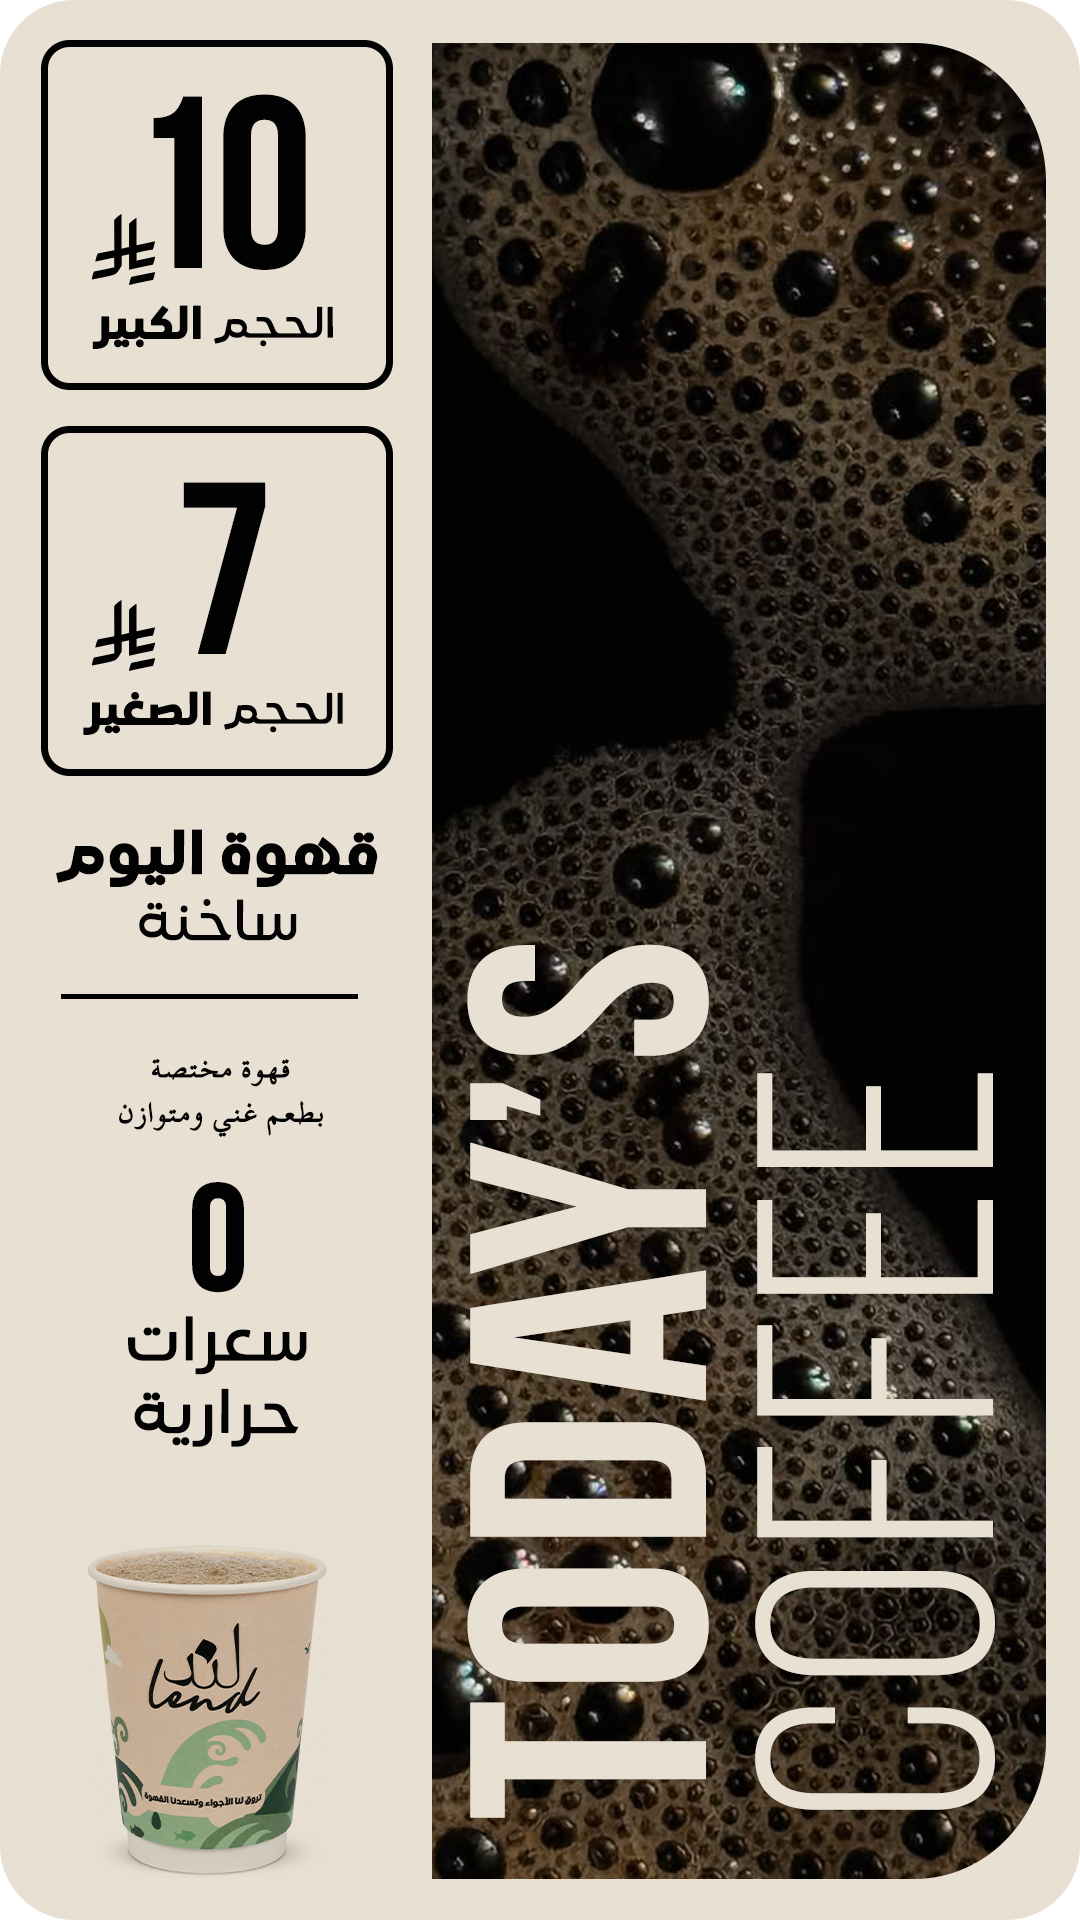
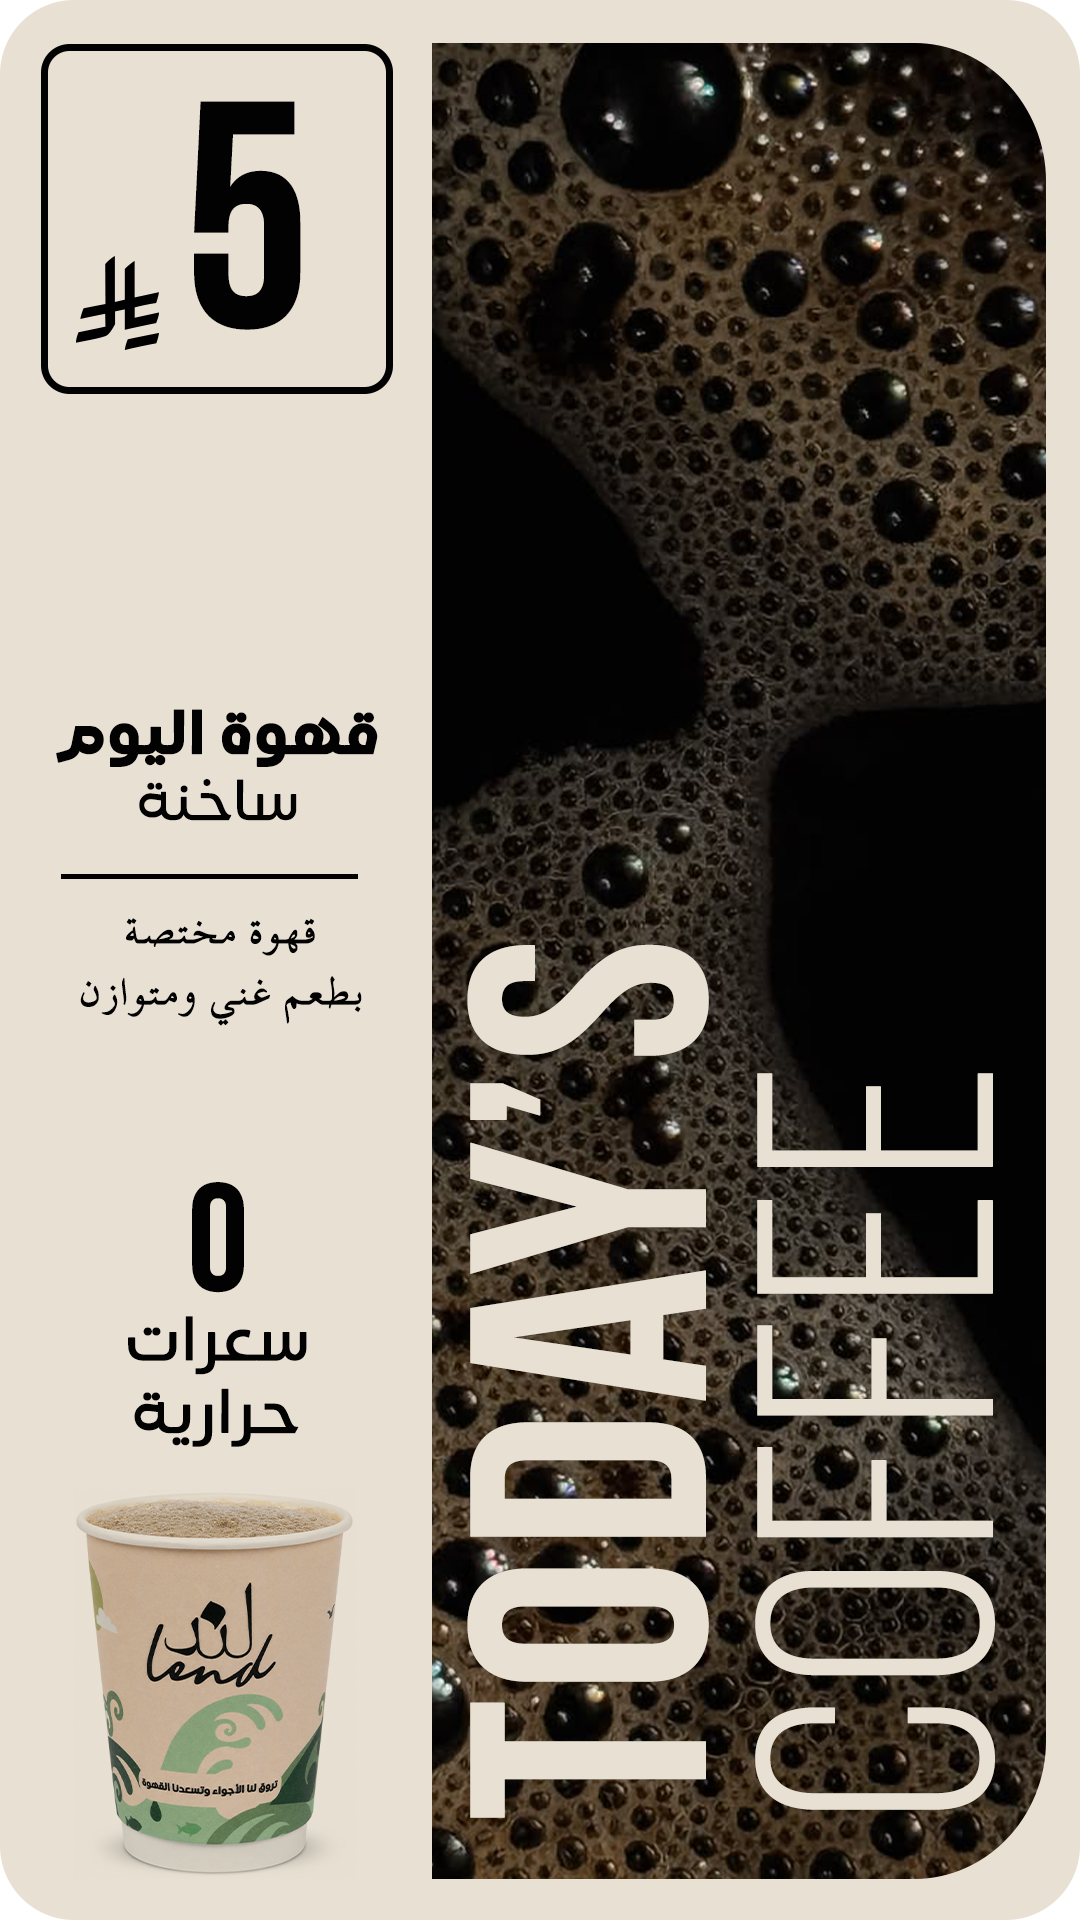
21

diff --git a/index.html b/index.html
@@ -177,27 +177,10 @@
             </div>
         </div>
 
-        <!-- ========== Drinks Section ========== -->
-        <div class="menu-section">
-            <h3 class="section-title" id="drinksTitle">مشروبات</h3>
-            <div class="products-grid">
-                <div class="product-square">
-                    <img src="SparklingWater.png" alt="Sparkling Water" class="product-square-img">
-                </div>
-                <div class="product-square">
-                    <img src="NaturalWater.png" alt="Natural Water" class="product-square-img">
-                </div>
-            </div>
-        </div>
-
         <!-- ========== Desserts Section (9 Products) ========== -->
         <div class="menu-section">
             <h3 class="section-title" id="dessertsTitle">الحلويات</h3>
             <div class="products-grid">
-
-                <div class="product-square" onclick="openPoster('posterD1')">
-                    <img src="DessertMenuCardP2.png" alt="Dessert 1" class="product-square-img">
-                </div>
 
                 <div class="product-square" onclick="openPoster('posterD2')">
                     <img src="DessertMenuCardCH2.png" alt="Dessert 2" class="product-square-img">
@@ -275,6 +258,19 @@
             </div>
         </div>
 
+        <!-- ========== Drinks Section (Last) ========== -->
+        <div class="menu-section">
+            <h3 class="section-title" id="drinksTitle">مشروبات</h3>
+            <div class="products-grid">
+                <div class="product-square">
+                    <img src="SparklingWater.png" alt="Sparkling Water" class="product-square-img">
+                </div>
+                <div class="product-square">
+                    <img src="NaturalWater.png" alt="Natural Water" class="product-square-img">
+                </div>
+            </div>
+        </div>
+
         <!-- ========== Footer Note ========== -->
         <div class="footer-note">
             <p class="footer-ar" id="footerAr">
@@ -293,10 +289,11 @@
     <div class="poster-overlay" id="posterOverlay" onclick="closePoster(event)">
         <div class="poster-overlay-content">
 
-            <!-- Poster 1 - POSTER ONLY (No Cup) -->
+            <!-- Poster 1 -->
             <div class="poster-full" id="poster1" style="display: none;">
                 <div class="poster-vertical" id="fullPoster1">
-                    <img src="بوستر-اليوم-الوطني-لند.png" alt="Poster" class="poster-bg-vertical">
+                    <img src="CoffeeMenuCard.png" alt="BG" class="poster-bg-vertical">
+                    <img src="CoffeeCup.png" alt="Cup" class="poster-cup-vertical" id="cup1">
                 </div>
                 <button class="close-btn" onclick="closePoster(event)">✕</button>
             </div>
@@ -391,10 +388,11 @@
                 <button class="close-btn" onclick="closePoster(event)">✕</button>
             </div>
 
-            <!-- Poster 9 - POSTER ONLY (No Cup) -->
+            <!-- Poster 9 -->
             <div class="poster-full" id="poster9" style="display: none;">
                 <div class="poster-vertical" id="fullPoster9">
-                    <img src="بوستر-اليوم-الوطني-لند.png" alt="Poster" class="poster-bg-vertical">
+                    <img src="CoffeeMenuCardB.png" alt="BG" class="poster-bg-vertical">
+                    <img src="CoffeeCupB.png" alt="Cup" class="poster-cup-vertical" id="cup9">
                 </div>
                 <button class="close-btn" onclick="closePoster(event)">✕</button>
             </div>

diff --git a/Lend.js b/Lend.js
@@ -187,7 +187,8 @@ function closePoster(event) {
 
 // ========== Draggable Cups ==========
 function initDraggableCups() {
-    // Hot drinks (without poster1 - no cup)
+    // Hot drinks (poster1 restored)
+    initDraggableCup('fullPoster1', 'cup1');
     initDraggableCup('fullPoster2', 'cup2');
     initDraggableCup('fullPoster3', 'cup3');
     initDraggableCup('fullPoster4', 'cup4');
@@ -199,7 +200,8 @@ function initDraggableCups() {
     initDraggableCup('fullPosterSPL', 'cupSPL');
     initDraggableCup('fullPosterMI', 'cupMI');
     
-    // Cold drinks (without poster9 - no cup)
+    // Cold drinks (poster9 restored)
+    initDraggableCup('fullPoster9', 'cup9');
     initDraggableCup('fullPoster10', 'cup10');
     initDraggableCup('fullPoster11', 'cup11');
     initDraggableCup('fullPoster12', 'cup12');
